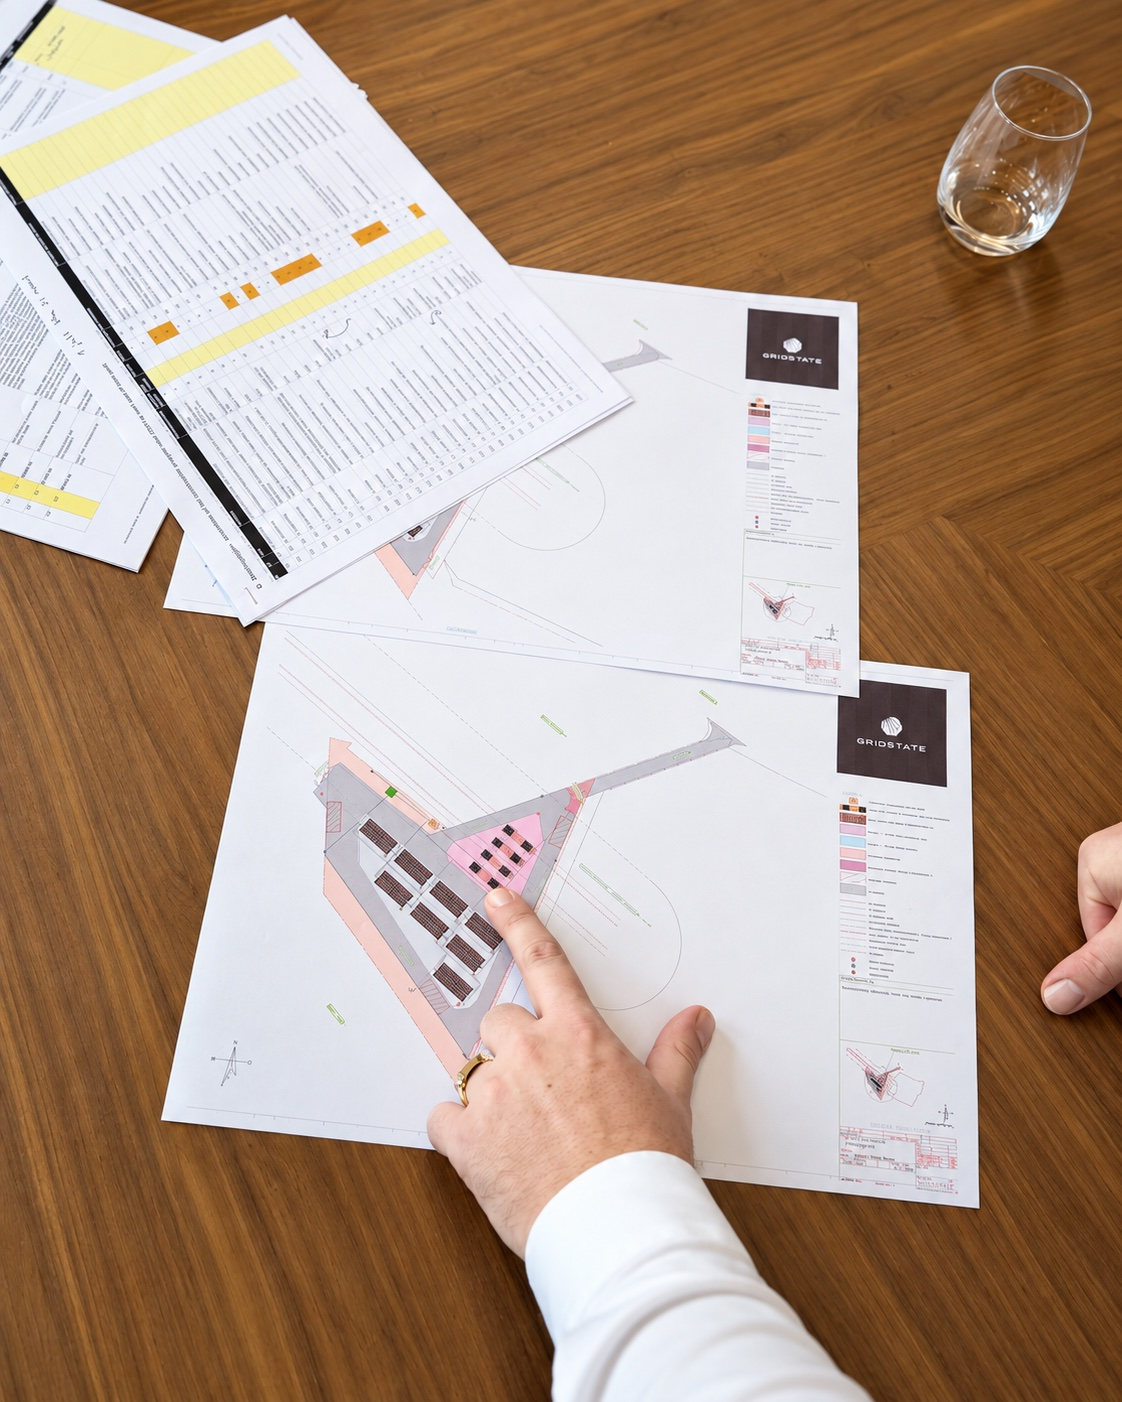
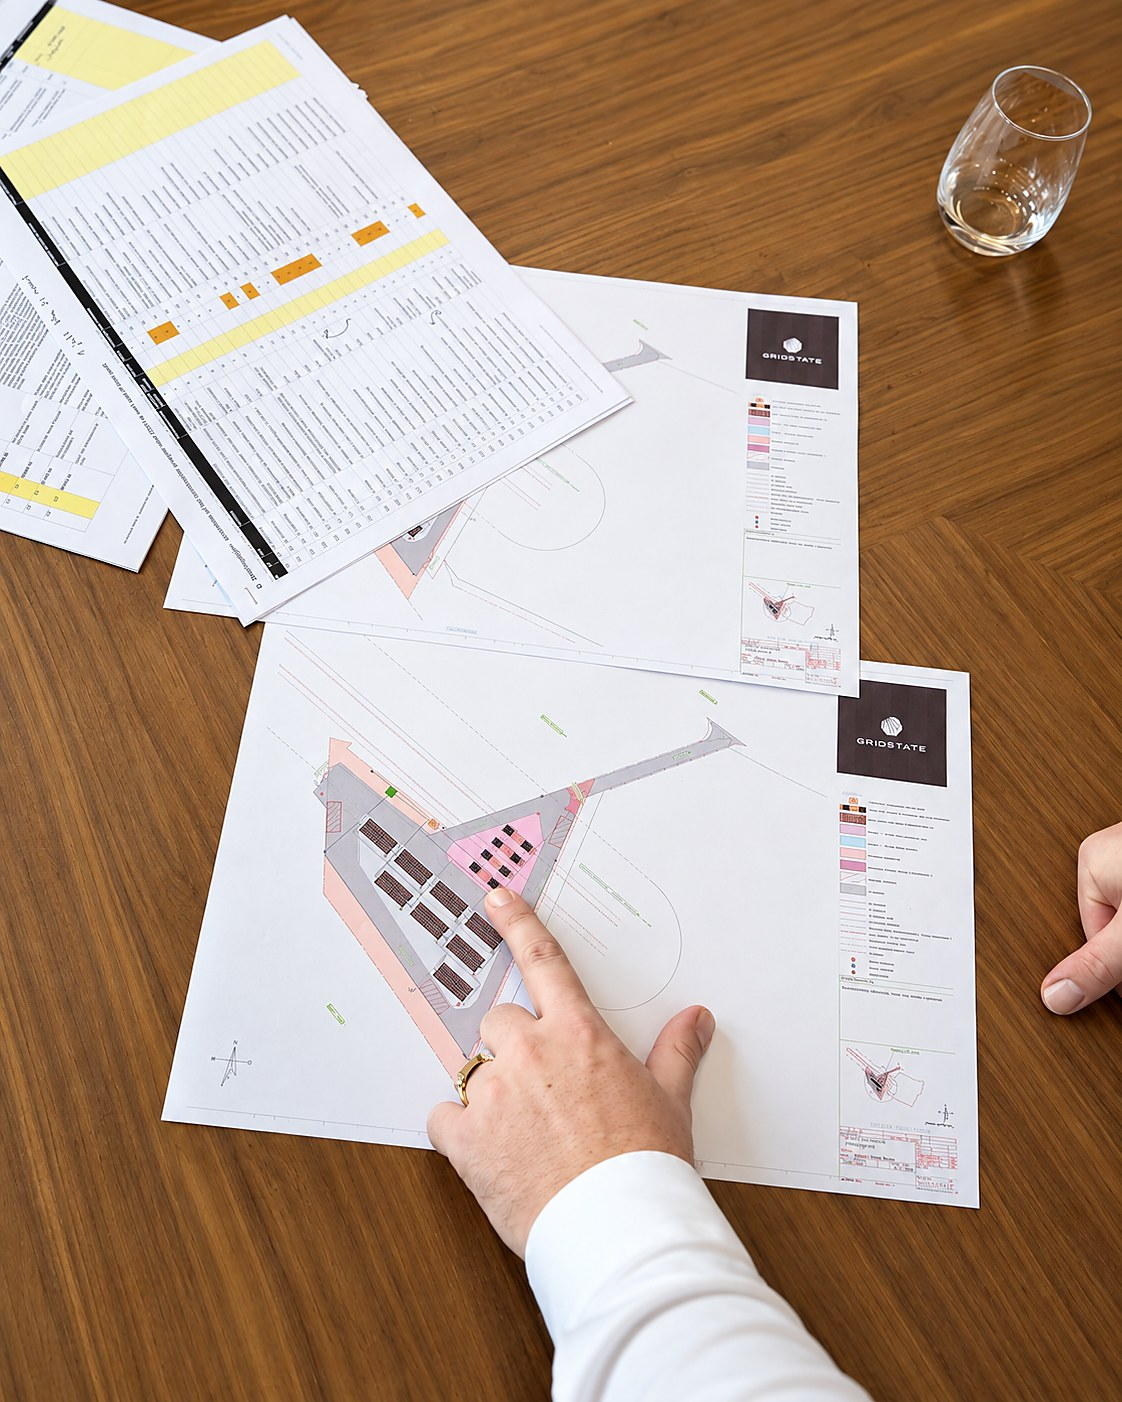
feat(beeld): eigen tekeningen op de partnermodelpagina's en een nieuwe foto bij haalbaarheid
Het eendraadschema komt op /partnermodellen/technical-support, direct onder de
vuistregel: die zegt dat wij de stukken maken die uw opdrachtgever moet
goedkeuren, en dit is zo'n stuk. De situatietekening komt op
/partnermodellen/full-epc onder de openingsalinea, en nog een keer op
/hoe-wij-bouwen tussen de sequentie en de CTA, met een eigen bijschrift dat de
disclaimer onder die sequentie beantwoordt.

Op /wat-wij-doen is alleen de alt-tekst bijgewerkt die aan
dienst-haalbaarheid.jpg hangt. Let op: door de eerdere fotowissel staat die
foto in blok 01, niet in blok 03; de alt hoort bij het beeld, dus hij is
meegereisd. De foto's en alt-teksten van de andere twee blokken zijn ongemoeid.

Drie dingen die onderweg bleken.

De brede uitsnede wordt op een telefoon 340 px breed en dan zijn de
aderaanduidingen niet meer te lezen. Onder md wordt daarom de portretuitsnede
getoond, de terugval die de prompt zelf noemt. Het slot staat op max-w-3xl,
want de bronnen zijn rond de 900 tot 1000 px en er is bewust niets
opgeschaald; een breder slot zou ze uitrekken.

quality={90} deed niets. Next 16 heeft images.qualities standaard op [75] gezet
en dwingt elke andere waarde naar de dichtstbijzijnde toegestane waarde. Staat
nu in next.config.ts, en de tekeningen komen er nu echt op 90 uit.

LEESMIJ.md stond in public/ en was dus publiek op te vragen, inclusief het
interne mappad en de regel over het niet-beoordeelde beeld met een herkenbare
klantlocatie. Dat bestand is naar docs/ verhuisd.

diff --git a/lib/translations.ts b/lib/translations.ts
@@ -134,7 +134,7 @@ export const translations = {
       blokCTitle: "Kan het, en is het wat waard",
       blokCIntro:
         "Voordat er geld naar apparatuur gaat moet duidelijk zijn of de locatie aansluitbaar en vergunbaar is, en wat een batterij daar realistisch opbrengt. Dat onderzoek doen wij los, ook als u daarna met een ander verder gaat.",
-      blokCPhotoAlt: "Handen wijzen een locatietekening aan op de vergadertafel bij Gridstate",
+      blokCPhotoAlt: "Terreintekeningen en een planning uit een haalbaarheidsstudie, uitgespreid op tafel",
       blokCItemsTitle: "Wat wij uitzoeken",
       blokCItems: [
         { title: "Netpositie", desc: "Welk station, welk netvlak, welke contractvorm. Wij controleren dat bij de netbeheerder zelf en niet op de landelijke congestiekaart, want die is te grof om een project op te bouwen. Bij congestie kijken wij naar een capaciteitssturingscontract, de congestieverzachter, kabelpooling of non-firm afname — vaak is er een route die op de kaart niet zichtbaar is." },
@@ -1551,6 +1551,19 @@ export const translations = {
       rights: "Alle rechten voorbehouden.",
       capabilityStatement: "Capability statement (pdf)",
     },
+    drawings: {
+      schemaAlt:
+        "Eendraadschema van een batterijopslagsysteem met transformatorvelden, schakelaars en aderaanduidingen",
+      schemaCaption:
+        "Een eendraadschema zoals wij het opleveren: per veld de transformator, de schakelaars en de aderaanduidingen, in de vorm waarin uw opdrachtgever het moet kunnen goedkeuren.",
+      situatieAlt:
+        "Situatietekening van een batterijopslagproject: rijen units met middenspanningsstations, onderhoudspaden en kabeltraces",
+      situatieCaption:
+        "Uit een van onze eigen terreinontwerpen. De rijen units, de middenspanningsstations ertussen en de ruimte die nodig is om erlangs te kunnen, komen uit dezelfde tekening.",
+      // Tweede bijschrift bij dezelfde tekening, op /hoe-wij-bouwen
+      situatieCaptionBouw:
+        "De sequentie hierboven is een referentieopbouw. Zo ziet een terreinontwerp eruit als het af is: rijen units, de stations ertussen, en de ruimte die de veiligheidsregio en het onderhoud nodig hebben.",
+    },
     downloads: {
       eyebrow: "Meenemen",
       title: "Het hele verhaal op tien pagina's",
@@ -1728,7 +1741,7 @@ export const translations = {
       blokCTitle: "Can it be done, and is it worth anything",
       blokCIntro:
         "Before money goes to equipment, it must be clear whether the site can be connected and permitted, and what a battery there would realistically earn. We do that research as a standalone service, even if you then continue with someone else.",
-      blokCPhotoAlt: "Hands pointing at a site drawing on the conference table at Gridstate",
+      blokCPhotoAlt: "Site drawings and a programme from a feasibility study, laid out on a table",
       blokCItemsTitle: "What we investigate",
       blokCItems: [
         { title: "Grid position", desc: "Which substation, which grid level, which contract form. We verify that with the grid operator itself, not on the national congestion map — it is too coarse to build a project on. Under congestion we look at a capacity-steering contract, the congestion mitigator, cable pooling or non-firm offtake; often there is a route the map doesn't show." },
@@ -3105,6 +3118,19 @@ export const translations = {
       kvkLabel: "CoC",
       rights: "All rights reserved.",
       capabilityStatement: "Capability statement (pdf)",
+    },
+    drawings: {
+      schemaAlt:
+        "Single-line diagram of a battery storage system showing transformer bays, switchgear and cable references",
+      schemaCaption:
+        "A single-line diagram as we deliver it: per bay the transformer, the switchgear and the cable references, in the form your client has to be able to approve.",
+      situatieAlt:
+        "Site layout of a battery storage project: rows of units with medium-voltage stations, maintenance access and cable routes",
+      situatieCaption:
+        "From one of our own site designs. The rows of units, the medium-voltage stations between them and the clearance needed to get past all come from the same drawing.",
+      // Second caption for the same drawing, on /hoe-wij-bouwen
+      situatieCaptionBouw:
+        "The sequence above is a reference build. This is what a site design looks like when it is finished: rows of units, the stations between them, and the clearance the fire authority and maintenance need.",
     },
     downloads: {
       eyebrow: "Take it with you",

diff --git a/components/TekeningFiguur.tsx b/components/TekeningFiguur.tsx
@@ -1,0 +1,67 @@
+"use client";
+
+import Image from "next/image";
+import ScrollReveal from "@/components/ScrollReveal";
+
+/**
+ * One of our own CAD drawings with a caption under it. A technical drawing
+ * without a line of explanation is decoration; with one it is evidence.
+ *
+ * Two things this component exists to get right.
+ *
+ * The slot is capped at max-w-3xl (768px). The sources are around 900-1000px
+ * wide and nothing has been upscaled (see public/fotos/tekeningen/LEESMIJ.md),
+ * so a wider slot would stretch them. Both wide files are exactly 3:2 and both
+ * portrait files exactly 4:5, so `object-cover` crops nothing either way.
+ *
+ * Below `md` the wide crop shrinks to about 340px and the cable references
+ * stop being readable, so a phone gets the portrait crop instead — same
+ * drawing, tighter frame, roughly twice the area. Both crops carry the same
+ * alt: only one of the two is ever displayed, and the hidden one is
+ * `display: none` and so ignored by assistive tech either way.
+ *
+ * Both are given an honest `sizes` rather than collapsing the hidden one to
+ * 1px. That trick saves a request but makes Chrome pick a candidate far below
+ * what the visible slot needs, which showed up as a 240px file in a 340px slot
+ * on a phone. A second, correctly sized fetch is the cheaper mistake.
+ */
+export default function TekeningFiguur({
+  srcWide,
+  srcPortrait,
+  alt,
+  caption,
+}: {
+  srcWide: string;
+  srcPortrait: string;
+  alt: string;
+  caption: string;
+}) {
+  return (
+    <ScrollReveal>
+      <figure className="max-w-3xl">
+        <div
+          className="relative aspect-[4/5] md:aspect-[3/2] w-full rounded-2xl overflow-hidden border border-[#e0d5d0]"
+          style={{ boxShadow: "0 8px 40px rgba(71,0,32,0.10), 0 2px 8px rgba(71,0,32,0.06)" }}
+        >
+          <Image
+            src={srcPortrait}
+            alt={alt}
+            fill
+            sizes="100vw"
+            quality={90}
+            className="object-cover md:hidden"
+          />
+          <Image
+            src={srcWide}
+            alt={alt}
+            fill
+            sizes="768px"
+            quality={90}
+            className="object-cover hidden md:block"
+          />
+        </div>
+        <figcaption className="mt-3 text-sm text-[#6b4a56] leading-relaxed">{caption}</figcaption>
+      </figure>
+    </ScrollReveal>
+  );
+}

diff --git a/app/(website)/hoe-wij-bouwen/page-client.tsx b/app/(website)/hoe-wij-bouwen/page-client.tsx
@@ -5,6 +5,7 @@ import dynamic from "next/dynamic";
 import { useLang } from "@/components/LanguageProvider";
 import ScrollReveal from "@/components/ScrollReveal";
 import BouwSequentie from "@/components/BouwSequentie";
+import TekeningFiguur from "@/components/TekeningFiguur";
 
 const HeroParticles = dynamic(() => import("@/components/HeroParticles"), { ssr: false });
 
@@ -47,6 +48,20 @@ export default function HoeWijBouwenClient() {
         <div className="absolute inset-x-0 top-0 h-24 pointer-events-none" style={{ background: "linear-gradient(to bottom, rgba(20,0,10,0.5), transparent)" }} />
         <div className="absolute inset-x-0 bottom-0 h-24 pointer-events-none" style={{ background: "linear-gradient(to top, rgba(20,0,10,0.5), transparent)" }} />
         <BouwSequentie />
+      </section>
+
+      {/* ─── DE SITUATIETEKENING — Warm wit ───────────────────── */}
+      {/* Antwoord op de disclaimer onder de sequentie: die zegt dat het een
+          referentieopbouw is, dit laat een echt terreinontwerp zien. */}
+      <section className="py-16 lg:py-20 bg-[#f9f6f4] overflow-hidden">
+        <div className="max-w-7xl mx-auto px-6 lg:px-8">
+          <TekeningFiguur
+            srcWide="/fotos/tekeningen/situatietekening-breed.jpg"
+            srcPortrait="/fotos/tekeningen/situatietekening-portret.jpg"
+            alt={t.drawings.situatieAlt}
+            caption={t.drawings.situatieCaptionBouw}
+          />
+        </div>
       </section>
 
       {/* ─── 3. CTA — Scharlaken, compact ─────────────────────── */}

diff --git a/app/(website)/partnermodellen/technical-support/page-client.tsx b/app/(website)/partnermodellen/technical-support/page-client.tsx
@@ -7,6 +7,7 @@ import ScrollReveal from "@/components/ScrollReveal";
 import Rolverdeling from "@/components/Rolverdeling";
 import FaseTijdlijn from "@/components/FaseTijdlijn";
 import ScopeIntake from "@/components/ScopeIntake";
+import TekeningFiguur from "@/components/TekeningFiguur";
 import { siteConfig } from "@/lib/site-config";
 
 const HeroParticles = dynamic(() => import("@/components/HeroParticles"), { ssr: false });
@@ -108,6 +109,20 @@ export default function TechnicalSupportClient() {
             </div>
             <p className="text-white/70 text-sm leading-relaxed mt-6">{ts.ruleNote}</p>
           </div>
+        </div>
+      </section>
+
+      {/* ─── HET EENDRAADSCHEMA — Warm wit ────────────────────── */}
+      {/* Direct onder de vuistregel: die zegt dat wij de stukken maken die
+          uw opdrachtgever moet goedkeuren, en dit is zo'n stuk. */}
+      <section className="py-16 lg:py-20 bg-[#f9f6f4] overflow-hidden">
+        <div className="max-w-7xl mx-auto px-6 lg:px-8">
+          <TekeningFiguur
+            srcWide="/fotos/tekeningen/eendraadschema-breed.png"
+            srcPortrait="/fotos/tekeningen/eendraadschema-portret.png"
+            alt={t.drawings.schemaAlt}
+            caption={t.drawings.schemaCaption}
+          />
         </div>
       </section>
 

diff --git a/app/(website)/partnermodellen/full-epc/page-client.tsx b/app/(website)/partnermodellen/full-epc/page-client.tsx
@@ -6,6 +6,7 @@ import { useLang } from "@/components/LanguageProvider";
 import ScrollReveal from "@/components/ScrollReveal";
 import ScopeBlokken from "@/components/ScopeBlokken";
 import BouwSequentieTeaser from "@/components/BouwSequentieTeaser";
+import TekeningFiguur from "@/components/TekeningFiguur";
 import { siteConfig } from "@/lib/site-config";
 
 const HeroParticles = dynamic(() => import("@/components/HeroParticles"), { ssr: false });
@@ -97,6 +98,18 @@ export default function FullEpcClient() {
             </h1>
             <p className="text-xl text-white/70 leading-relaxed">{fe.heroStandfirst}</p>
           </div>
+        </div>
+      </section>
+
+      {/* ─── DE SITUATIETEKENING — Warm wit ───────────────────── */}
+      <section className="py-16 lg:py-20 bg-[#f9f6f4] overflow-hidden">
+        <div className="max-w-7xl mx-auto px-6 lg:px-8">
+          <TekeningFiguur
+            srcWide="/fotos/tekeningen/situatietekening-breed.jpg"
+            srcPortrait="/fotos/tekeningen/situatietekening-portret.jpg"
+            alt={t.drawings.situatieAlt}
+            caption={t.drawings.situatieCaption}
+          />
         </div>
       </section>
 

diff --git a/next.config.ts b/next.config.ts
@@ -1,6 +1,12 @@
 import type { NextConfig } from "next";
 
 const nextConfig: NextConfig = {
+  images: {
+    // Next 16 coerces any quality outside this list to the nearest allowed
+    // value, and the default list is [75] only. The CAD drawings need 90:
+    // at 75 the thin line work closes up.
+    qualities: [75, 90],
+  },
   async headers() {
     return [{
       source: '/dashboard/:path*',

diff --git a/docs/tekeningen-LEESMIJ.md b/docs/tekeningen-LEESMIJ.md
@@ -1,0 +1,61 @@
+# Tekeningen · LEESMIJ
+
+> Dit bestand stond eerst in `public/fotos/tekeningen/`. Alles onder `public/`
+> wordt door Next rechtstreeks geserveerd, dus het was op te vragen via
+> `/fotos/tekeningen/LEESMIJ.md` — inclusief het interne mappad en de regel over
+> het niet-beoordeelde beeld met een herkenbare klantlocatie. Daarom staat het
+> hier. De beelden zelf staan nog wel in `public/fotos/tekeningen/`.
+
+Bewerkt uit schermafbeeldingen van Shane, 18-09-2026. CAD-interface eraf,
+bijgesneden, contrast licht bijgetrokken, unsharp mask erover.
+
+| Bestand | Formaat | Verhouding |
+|---|---|---|
+| `eendraadschema-portret.png` | 510 x 638 | 4:5 |
+| `eendraadschema-breed.png` | 1002 x 668 | 3:2 |
+| `situatietekening-portret.jpg` | 472 x 590 | 4:5 |
+| `situatietekening-breed.jpg` | 885 x 590 | 3:2 |
+
+## Lees dit voor je kiest
+
+**Gebruik bij voorkeur de brede versies.** De bron is een schermafbeelding van
+ongeveer 1570 px breed. Een portretuitsnede van 4:5 gebruikt daar maar een
+derde van, dus die komt niet hoger dan circa 500 px breed. In een kaartslot van
+450 css-pixels is dat scherp op een gewoon scherm en net iets zacht op een
+retina-scherm. De brede versies gebruiken bijna de volle bronbreedte en zijn
+overal scherp.
+
+Alles staat op ware grootte. Er is bewust **niet** opgeschaald: een uitsnede
+van 500 px uitrekken naar 900 maakt hem alleen maar waziger.
+
+Wil je het echt scherp op alle schermen, dan is er maar een oplossing: opnieuw
+exporteren vanuit CAD op 2400 px brede zijde, zonder interface. Dan kan het
+portret ook ruim genoeg bemeten worden.
+
+## Eén aanpassing aan de inhoud
+
+In het eendraadschema stond onder `33/0.69 kV` de regel `5140 kVA`. Dat is een
+typeaanduiding die naar een specifieke leverancier wijst, en de staande
+werkafspraak is leveranciersneutraal in klantstukken. Die regel is weg;
+`33/0.69 kV` en `Dy11` staan er nog.
+
+De blokaanduidingen (SK01, SK02, SK15) en de aderaanduidingen (LV-W001,
+DA-W001, AX-W040) zijn blijven staan. Dat is een generieke
+naamgevingsconventie en verraadt geen project.
+
+## Waarom het eendraadschema een PNG is
+
+Lijnwerk op een vlakke achtergrond heeft weinig kleuren. Als palet-PNG blijft
+het scherp en is het kleiner dan JPG; als JPG krijg je vieze randen om elke
+lijn. De situatietekening heeft een gerenderde achtergrond met kleurverlopen en
+is daarom wel JPG.
+
+## Nog te beoordelen
+
+Twee andere beelden staan bewust niet in `public/`, want alles daar is publiek
+zodra er gedeployed wordt. Ze staan in
+`Commercieel/documentfabriek/output/beeldmateriaal-nog-te-beoordelen/`:
+
+- **stationsdetail** · tekening van de leverancier met gewichten erbij, geen
+  eigen werk.
+- **locatieontwerp** · luchtfoto met ontwerp erover, herkenbare klantlocatie.
